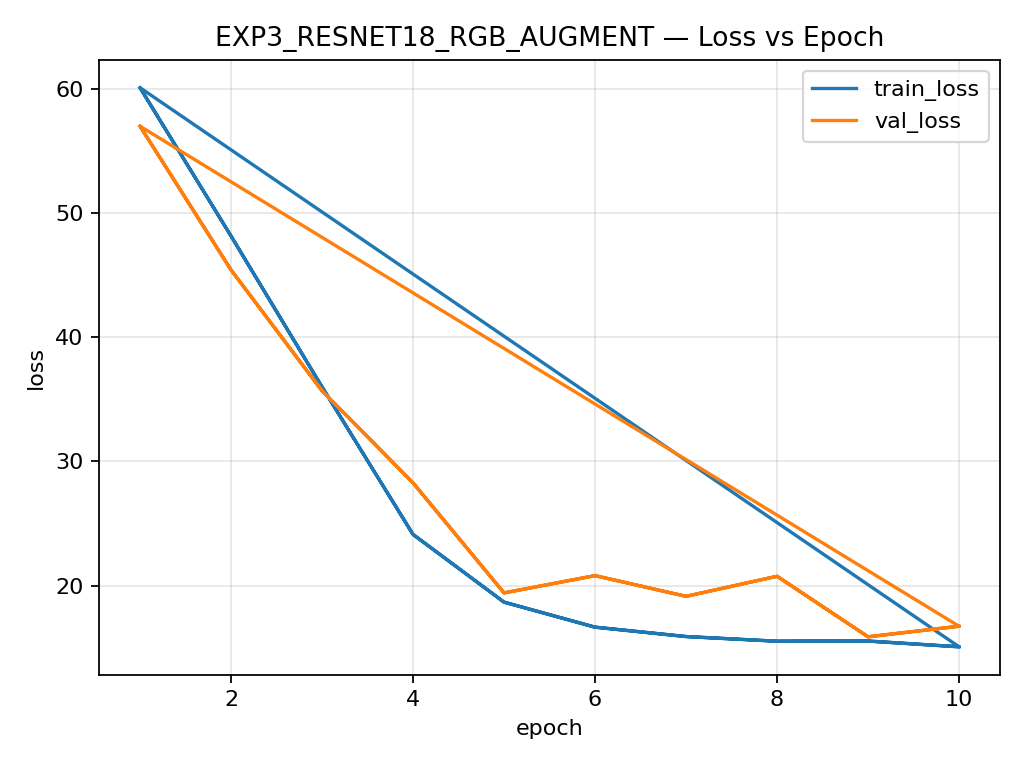
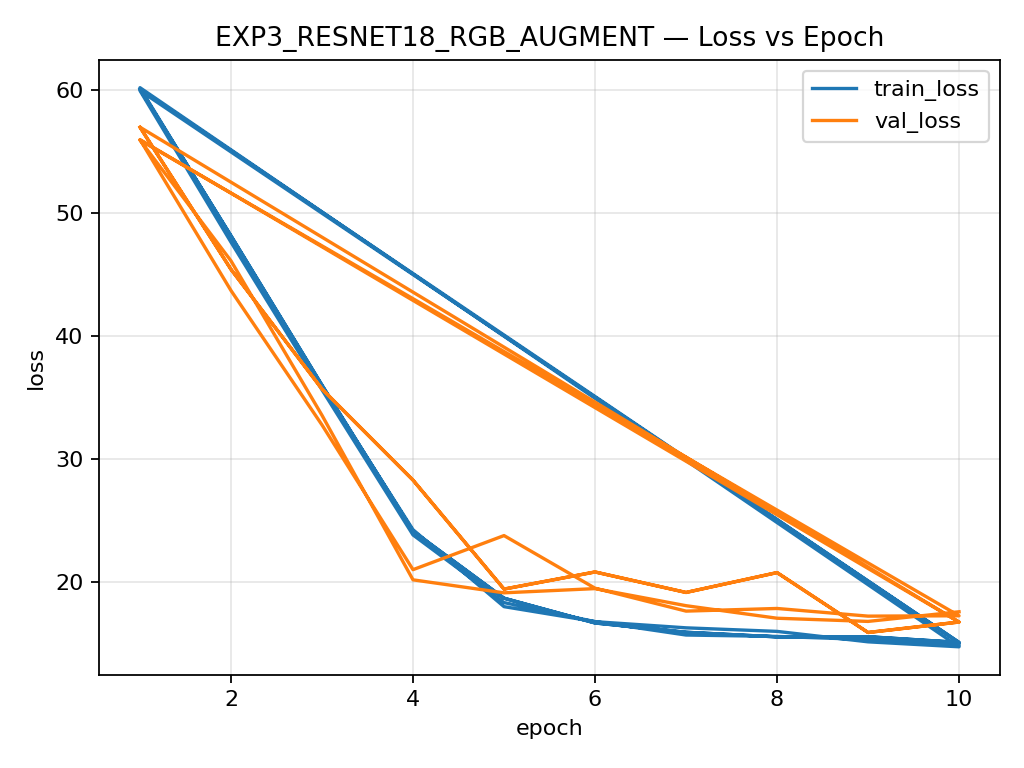
Update experiment summaries and plots (seed runs)

diff --git a/experiments/summary_base_pretty.md b/experiments/summary_base_pretty.md
@@ -1,6 +1,8 @@
-| exp_id                    | model      | modality   | augment       |   best_epoch |   val_success |   val_iou |   val_angle |   val_loss | ckpt_best                                                  | ckpt_last                                                  |
-|:--------------------------|:-----------|:-----------|:--------------|-------------:|--------------:|----------:|------------:|-----------:|:-----------------------------------------------------------|:-----------------------------------------------------------|
-| EXP3_RESNET18_RGB_AUGMENT | resnet18   | RGB        | geo=1|photo=1 |            9 |      0.303202 |  0.309791 |       56.96 |    15.8746 | experiments/EXP3_RESNET18_RGB_AUGMENT/checkpoints/best.pth | experiments/EXP3_RESNET18_RGB_AUGMENT/checkpoints/last.pth |
-| EXP3_RESNET18_RGBD        | resnet18   | RGBD       | nan           |           10 |      0.258004 |  0.278729 |       66.84 |    17.9831 | experiments/EXP3_RESNET18_RGBD/checkpoints/best.pth        | experiments/EXP3_RESNET18_RGBD/checkpoints/last.pth        |
-| EXP2_SIMPLE_RGBD          | simple_cnn | RGBD       | nan           |           10 |      0.227872 |  0.324449 |       71.19 |    18.7222 | experiments/EXP2_SIMPLE_RGBD/checkpoints/best.pth          | experiments/EXP2_SIMPLE_RGBD/checkpoints/last.pth          |
-| EXP1_SIMPLE_RGB           | simple_cnn | RGB        | nan           |            7 |      0.177024 |  0.260778 |       71.66 |    18.7701 | experiments/EXP1_SIMPLE_RGB/checkpoints/best.pth           | experiments/EXP1_SIMPLE_RGB/checkpoints/last.pth           |
+| exp_id                          | model      | modality   | augment       |   best_epoch |   val_success |   val_iou |   val_angle |   val_loss | ckpt_best                                                        | ckpt_last                                                        |
+|:--------------------------------|:-----------|:-----------|:--------------|-------------:|--------------:|----------:|------------:|-----------:|:-----------------------------------------------------------------|:-----------------------------------------------------------------|
+| EXP3_RESNET18_RGB_AUGMENT_seed0 | resnet18   | RGB        | geo=1|photo=1 |            9 |      0.303202 |  0.309791 |       56.96 |    15.8746 | experiments/EXP3_RESNET18_RGB_AUGMENT_seed0/checkpoints/best.pth | experiments/EXP3_RESNET18_RGB_AUGMENT_seed0/checkpoints/last.pth |
+| EXP3_RESNET18_RGBD              | resnet18   | RGBD       | nan           |           10 |      0.258004 |  0.278729 |       66.84 |    17.9831 | experiments/EXP3_RESNET18_RGBD/checkpoints/best.pth              | experiments/EXP3_RESNET18_RGBD/checkpoints/last.pth              |
+| EXP3_RESNET18_RGB_AUGMENT_seed2 | resnet18   | RGB        | geo=1|photo=1 |            8 |      0.254237 |  0.266338 |       62.52 |    17.0349 | experiments/EXP3_RESNET18_RGB_AUGMENT_seed2/checkpoints/best.pth | experiments/EXP3_RESNET18_RGB_AUGMENT_seed2/checkpoints/last.pth |
+| EXP3_RESNET18_RGB_AUGMENT_seed1 | resnet18   | RGB        | geo=1|photo=1 |            8 |      0.239171 |  0.305115 |       68.43 |    17.8289 | experiments/EXP3_RESNET18_RGB_AUGMENT_seed1/checkpoints/best.pth | experiments/EXP3_RESNET18_RGB_AUGMENT_seed1/checkpoints/last.pth |
+| EXP2_SIMPLE_RGBD                | simple_cnn | RGBD       | nan           |           10 |      0.227872 |  0.324449 |       71.19 |    18.7222 | experiments/EXP2_SIMPLE_RGBD/checkpoints/best.pth                | experiments/EXP2_SIMPLE_RGBD/checkpoints/last.pth                |
+| EXP1_SIMPLE_RGB                 | simple_cnn | RGB        | nan           |            7 |      0.177024 |  0.260778 |       71.66 |    18.7701 | experiments/EXP1_SIMPLE_RGB/checkpoints/best.pth                 | experiments/EXP1_SIMPLE_RGB/checkpoints/last.pth                 |
